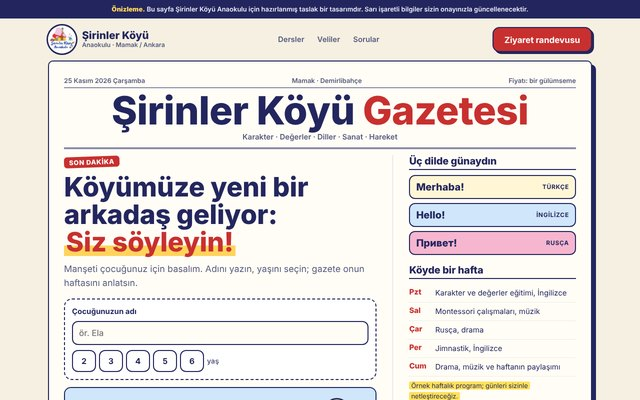
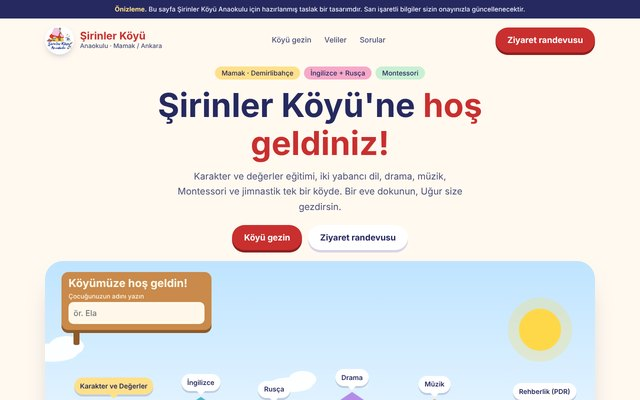
Şirinler Köyü kartı güncellendi
Claude-Session: https://claude.ai/code/session_01V27VxCak6nhkhKEoPmg8Ct

diff --git a/index.html b/index.html
@@ -111,7 +111,7 @@ footer .wrap{display:flex;justify-content:space-between;gap:12px;flex-wrap:wrap;
 <div class="grid" id="grid">
 <a class="card" href="https://nnumanbekir-lgtm.github.io/sirinler-koyu-anaokulu/" target="_blank" rel="noopener" data-g="Ankara">
 <span class="shot"><img src="shots/sirinler-koyu-anaokulu.jpg" alt="Şirinler Köyü Anaokulu sitesinin açılış ekranı" loading="lazy" width="640" height="400"></span>
-<span class="meta"><span class="nm">Şirinler Köyü Anaokulu</span><span class="pl">Mamak, Ankara</span><span class="sg">Köy gazetesi: çocuğun adını yazınca manşete çıkıyor, üç dilde (Türkçe, İngilizce, Rusça) günaydın diyor.</span><span class="go">Siteyi aç ↗</span></span></a>
+<span class="meta"><span class="nm">Şirinler Köyü Anaokulu</span><span class="pl">Mamak, Ankara</span><span class="sg">Renkli bir köy: her ders bir ev, Uğur Böceği evden eve uçup anlatıyor; çocuğun adı tabelada, selamı üç dilde.</span><span class="go">Siteyi aç ↗</span></span></a>
 <a class="card" href="https://nnumanbekir-lgtm.github.io/kepez-kesif-anaokulu/" target="_blank" rel="noopener" data-g="Diğer">
 <span class="shot"><img src="shots/kepez-kesif-anaokulu.jpg" alt="Kepez Keşif Anaokulu sitesinin açılış ekranı" loading="lazy" width="640" height="400"></span>
 <span class="meta"><span class="nm">Kepez Keşif Anaokulu</span><span class="pl">Kepez, Antalya</span><span class="sg">Beş soruluk keşif testi: her cevapta gülen bir harf bloğu düşüyor, KEŞİF tamamlanınca çocuğun profili çıkıyor.</span><span class="go">Siteyi aç ↗</span></span></a>
